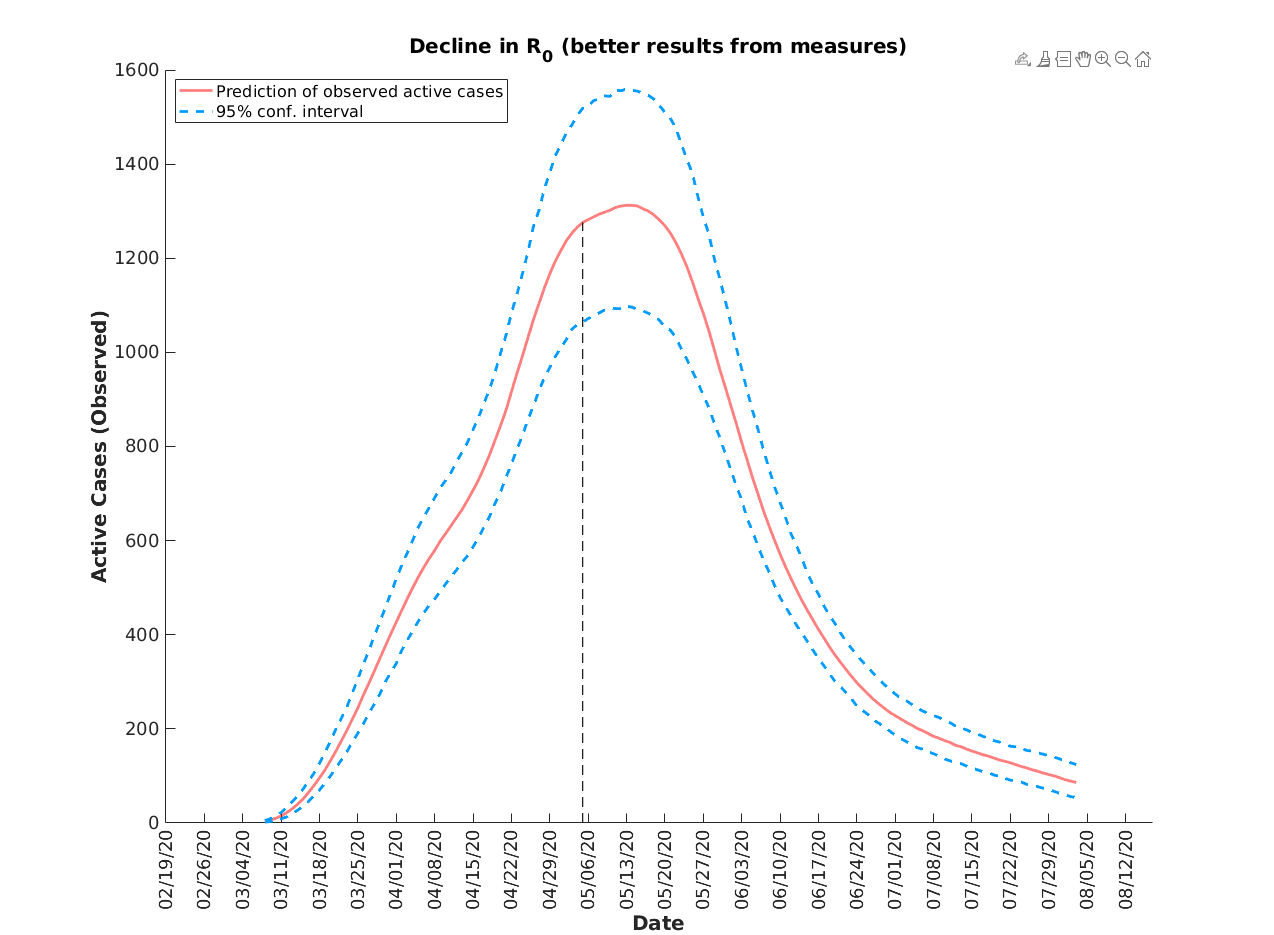
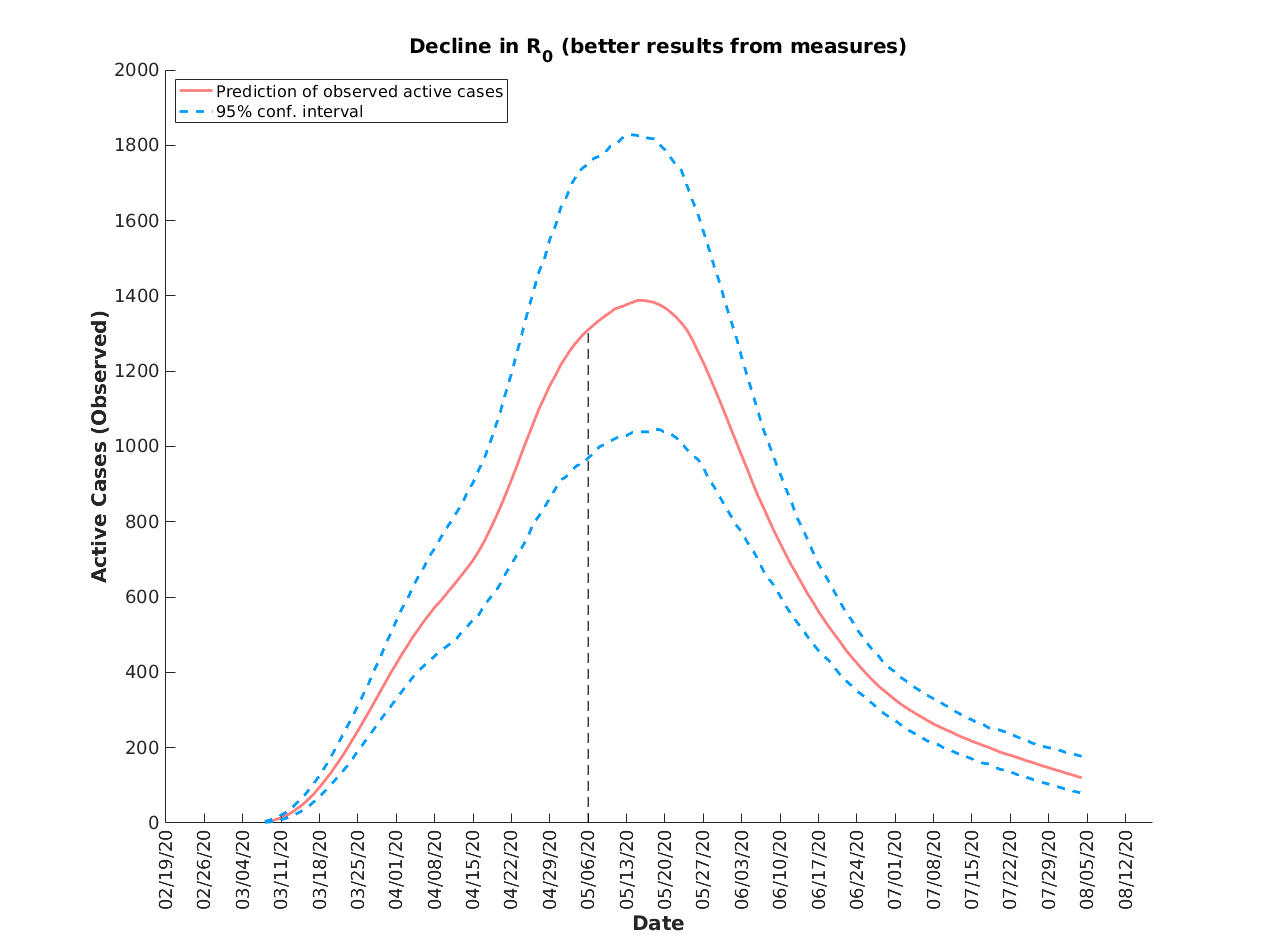
Add files via upload

diff --git a/Bulgaria/RunScript_for_Bulgaria.m b/Bulgaria/RunScript_for_Bulgaria.m
@@ -76,7 +76,7 @@ UB=[10*ones(size(R0_daily_start,2),1); Im_mu_max*ones(size(R0_daily_start,2),1)]
 % smoothing parameters:
 lmb_newcases = 1;     % penalty for non-smoothness in the projected new cases from the model
 lmb_R0 = 0.5;          % penalty for non-smoothness in R0(t), t=0, ..., T
-lmb_Im = 0.4;          % penalty for non-smoothness in the immigration probabilities, t=0, ..., T
+lmb_Im = 0.2;          % penalty for non-smoothness in the immigration probabilities, t=0, ..., T
 
 optim_param = createOptimProblem('fmincon', 'objective', @(X)(obj_Mu_and_Im(X, Z_0, mu_covid_pdf, Im_age_struct_prob, h, totalcases_hist, [lmb_newcases lmb_R0 lmb_Im])), 'x0', [R0_daily_start, Im_mu_daily_start], 'lb', LB, 'ub', UB, 'options', optim_options);
 [X_solution, ~, exitflag]=fmincon(optim_param);
@@ -289,4 +289,3 @@ end
 
 %% save the results
 % save(strcat('results_', num2str(sim_num)))
-
